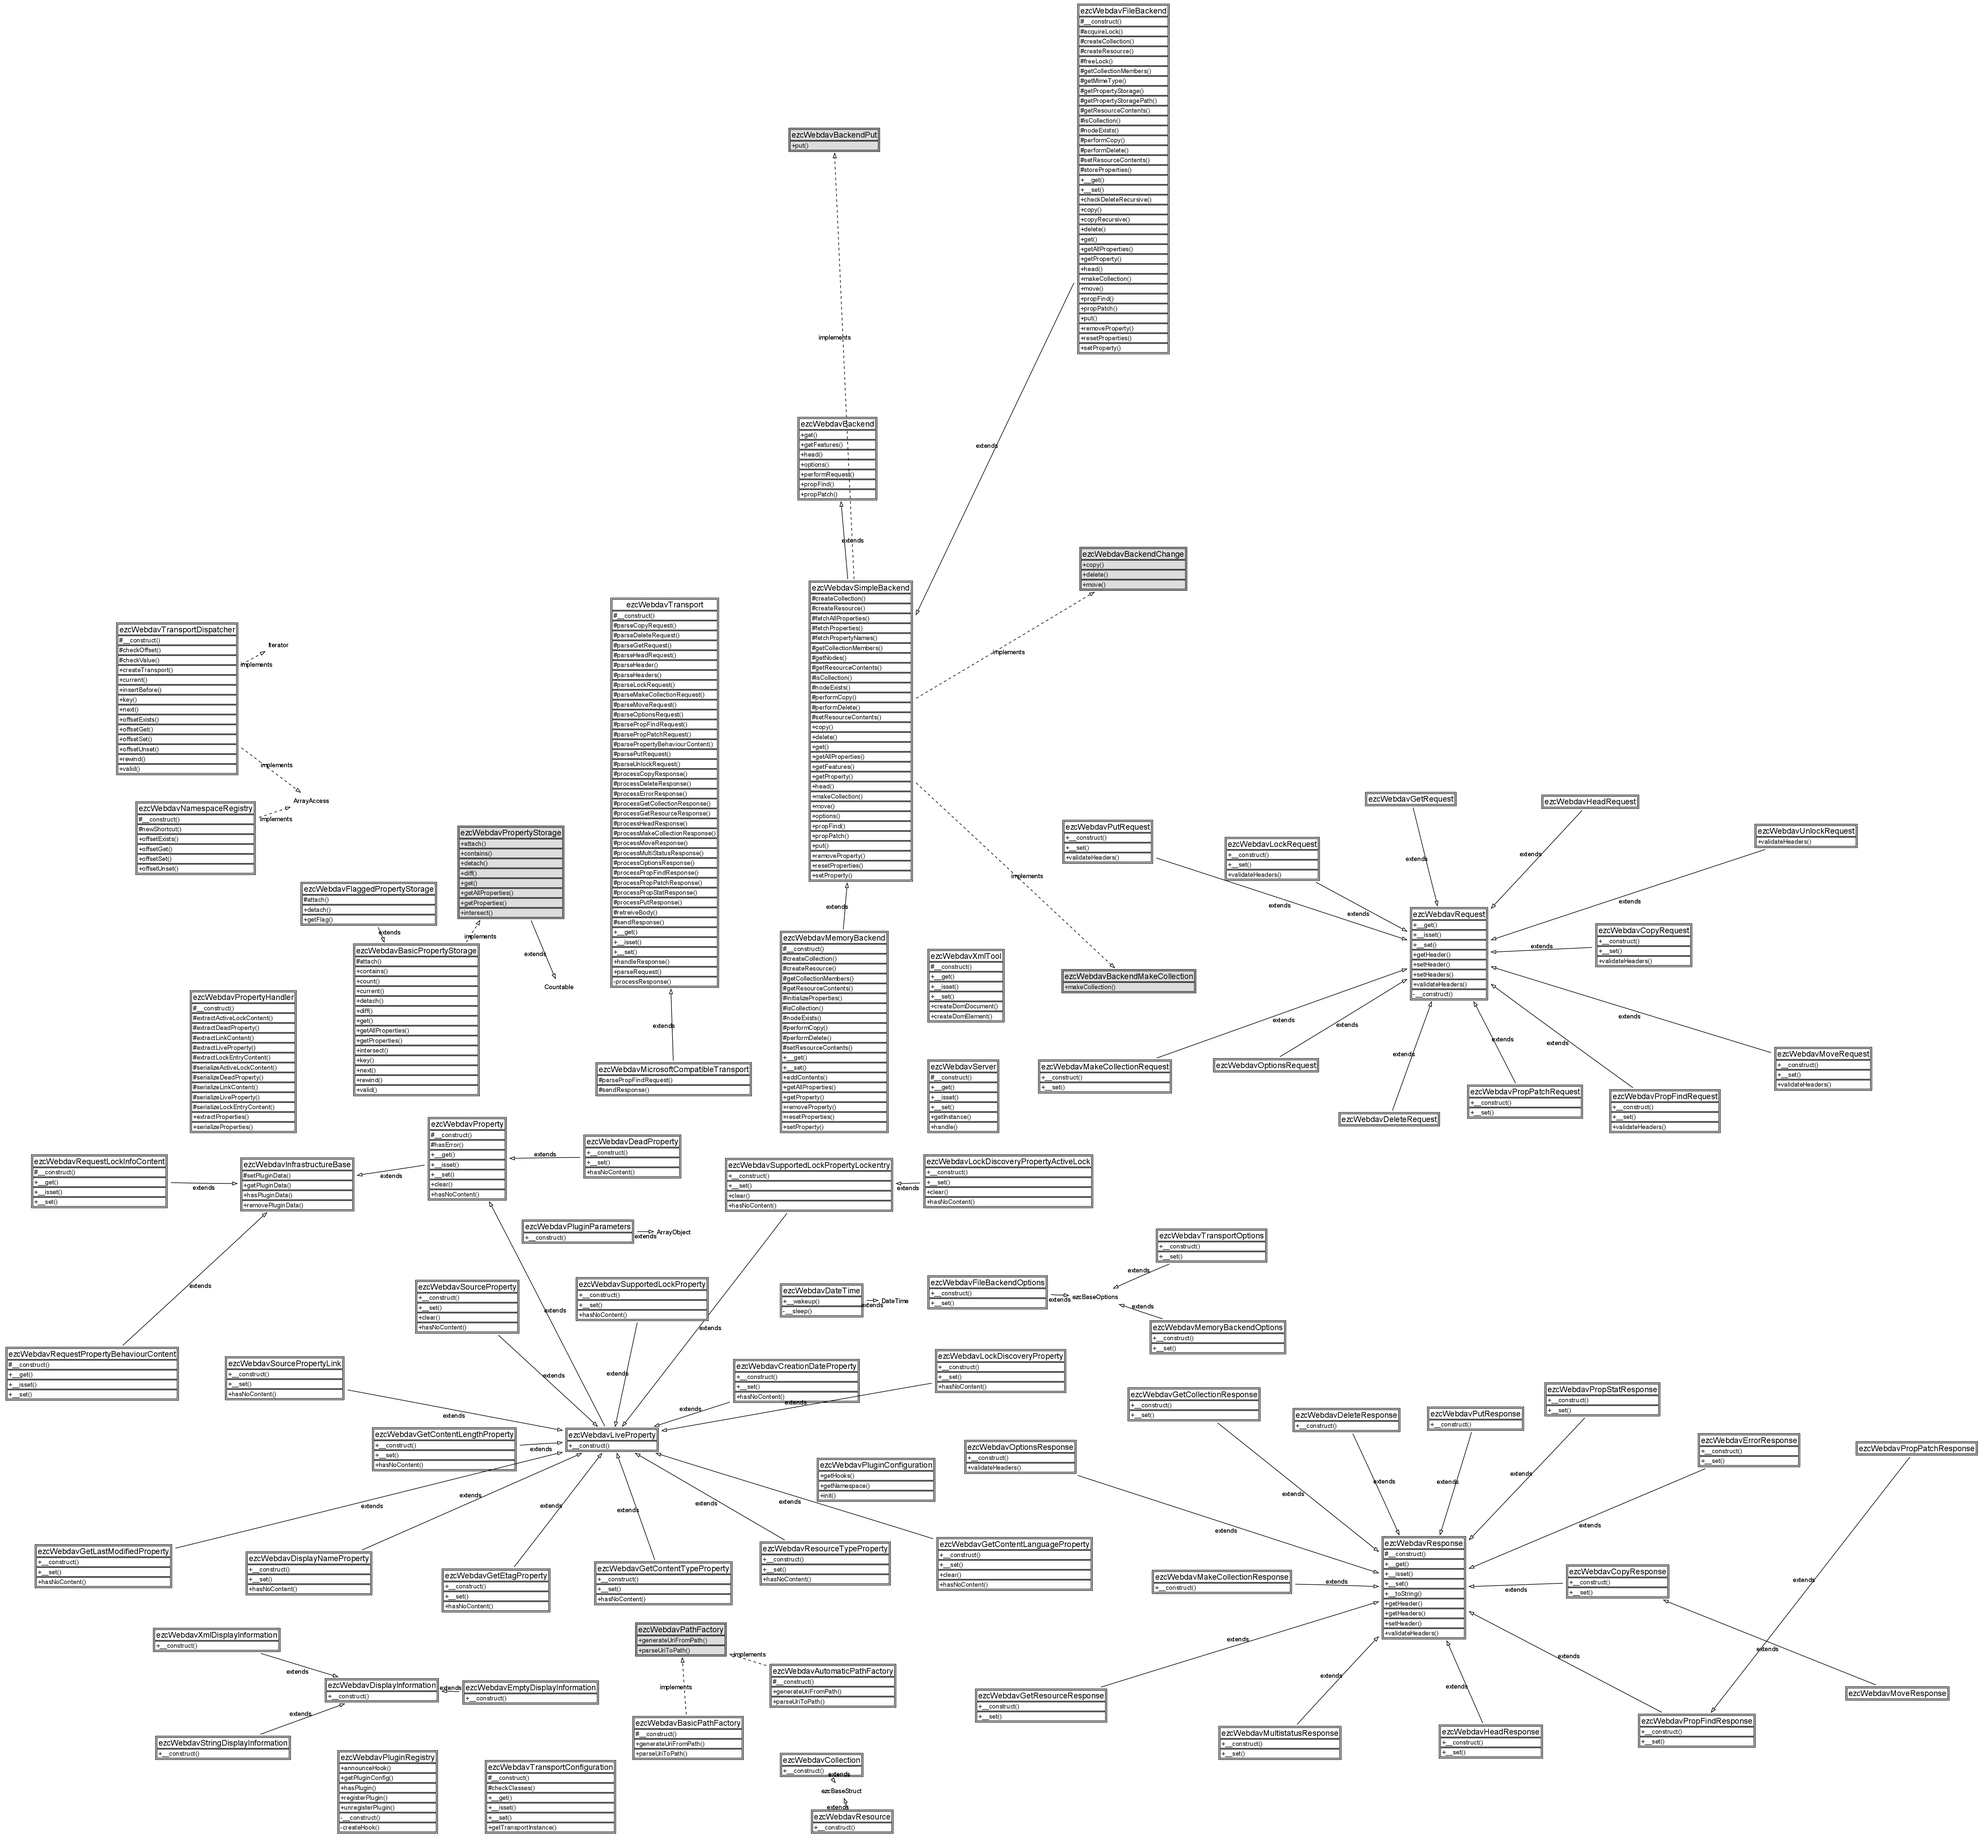
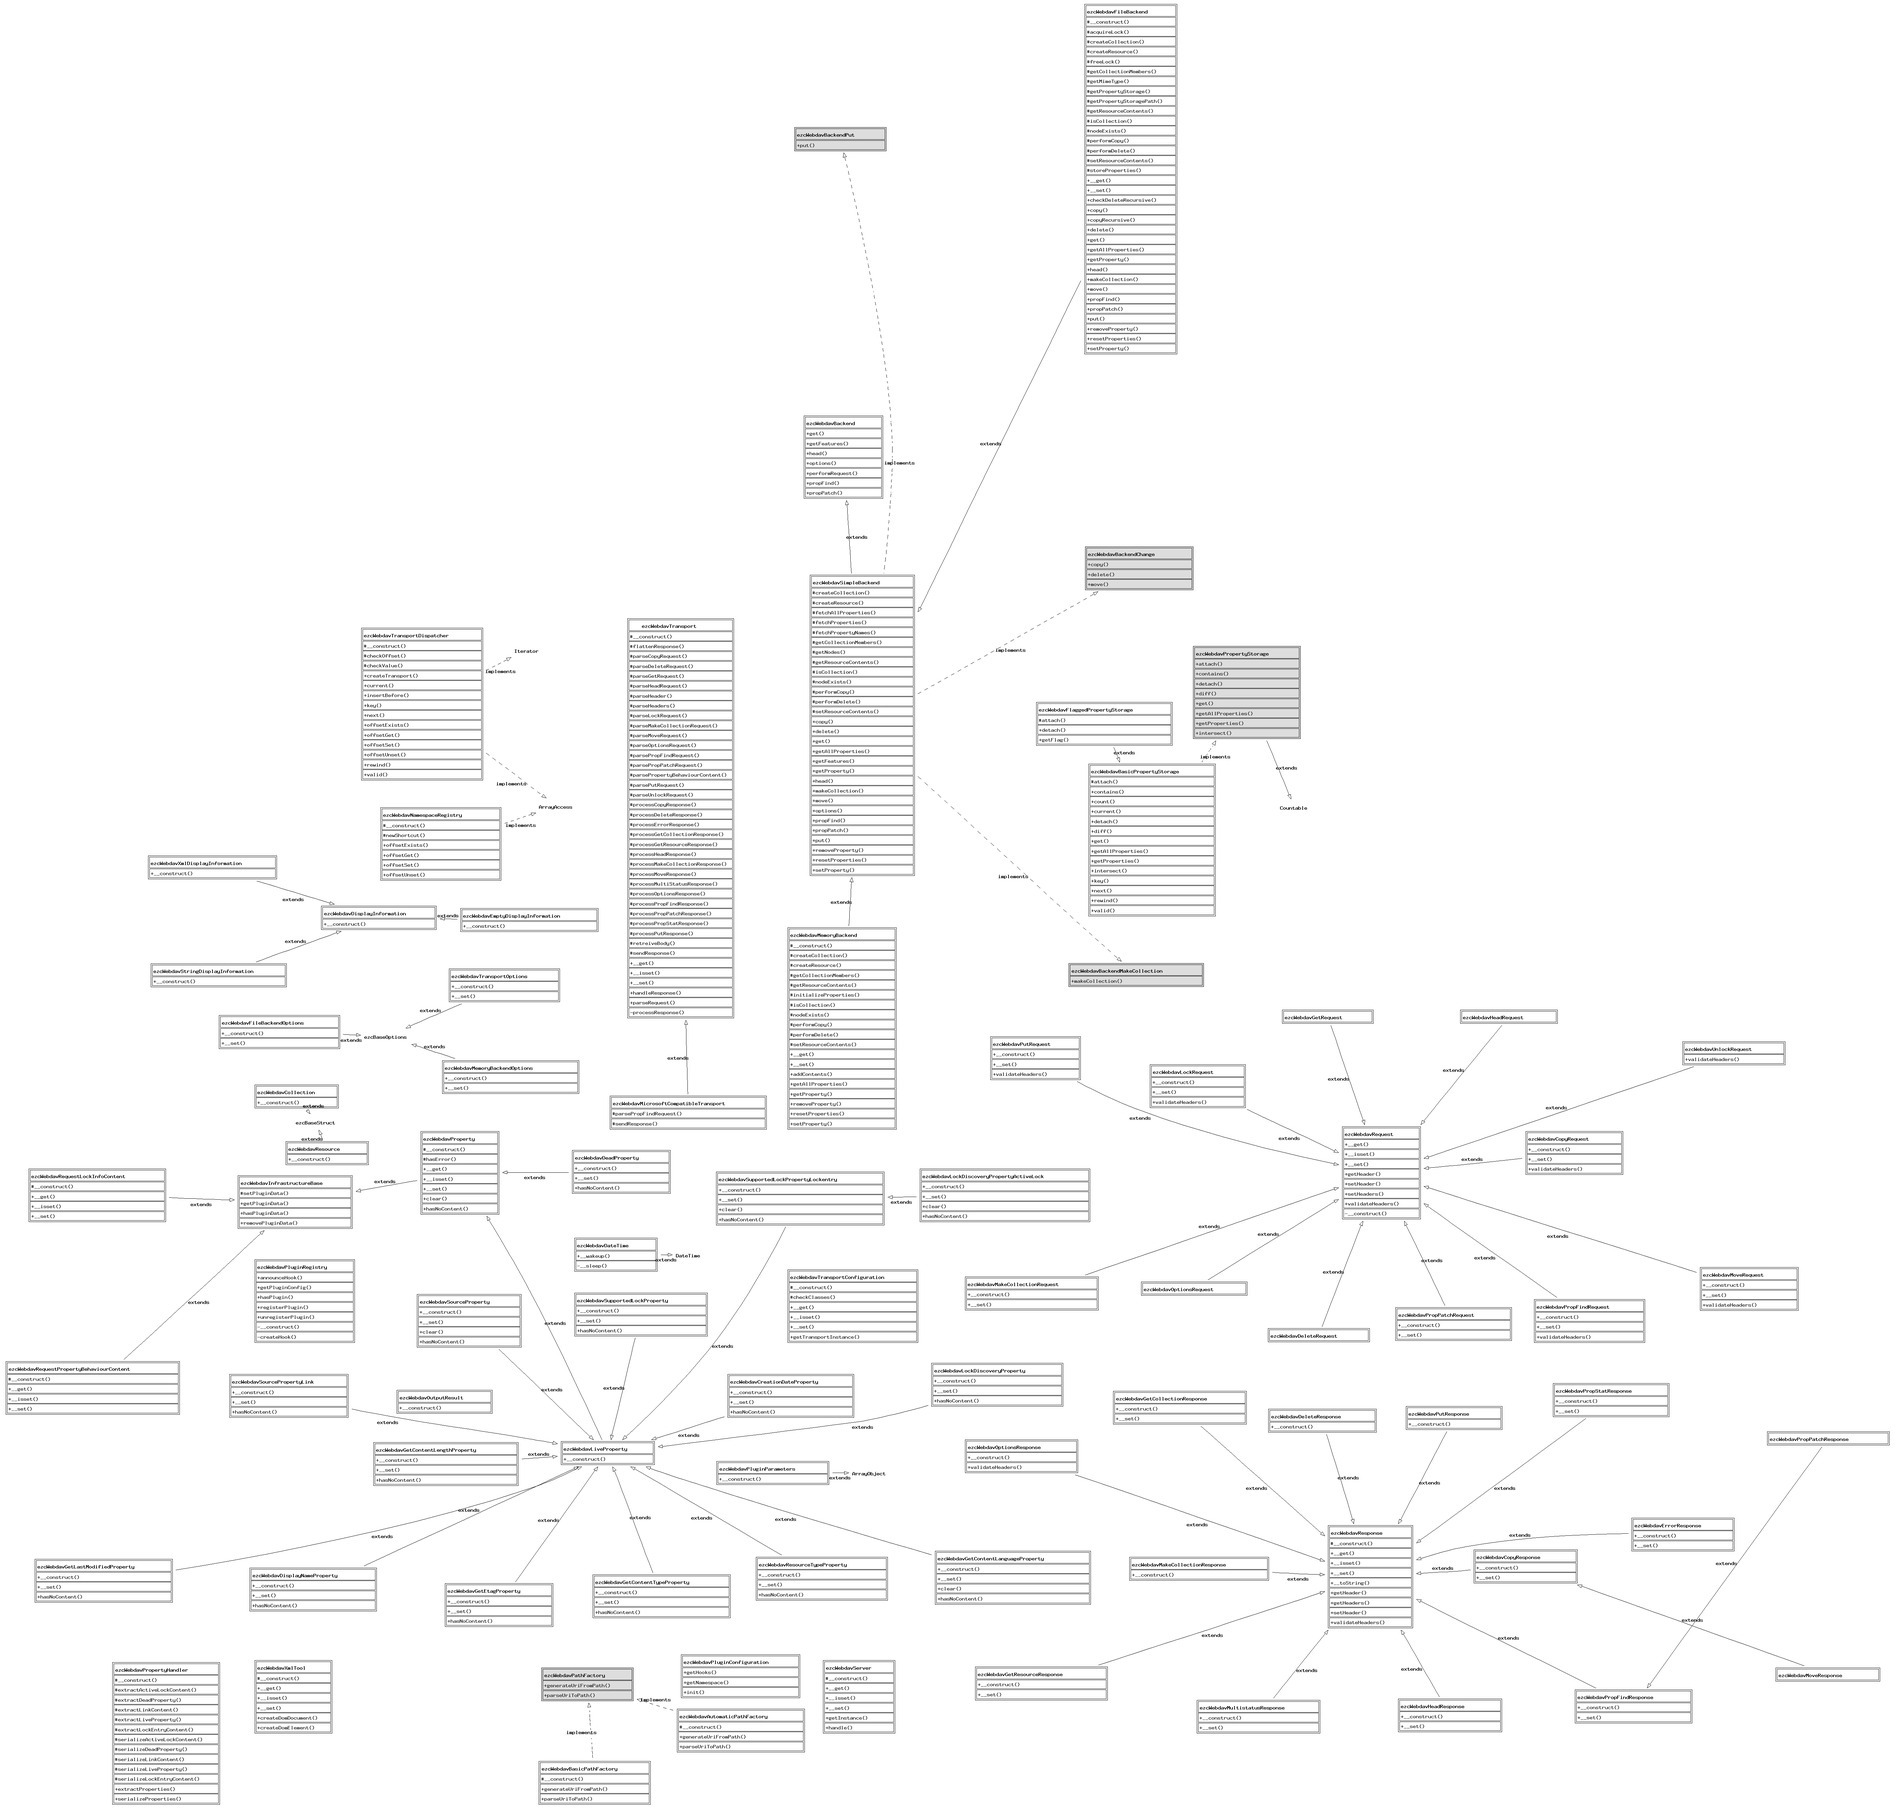
- Use struct instead of complex array
git-svn-id: http://svn.ez.no/svn/ezcomponents/trunk@6423 bc0e7bdc-f0fc-0310-8ff6-f601c06e1256

diff --git a/Webdav/src/transport.php b/Webdav/src/transport.php
@@ -366,8 +366,10 @@ class ezcWebdavTransport
     protected function flattenResponse( ezcWebdavDisplayInformation $info )
     {
         $headers     = array_merge( $info->response->getHeaders() );
-        $headers[''] = (string) $info->response;
         $body        = '';
+
+        $output = new ezcWebdavOutputResult();
+        $output->status = (string) $info->response;
 
         switch ( true )
         {
@@ -393,8 +395,11 @@ class ezcWebdavTransport
                 $body = '';
                 break;
         }
+
+        $output->headers = $headers;
+        $output->body    = $body;
         
-        return array( 'headers' => $headers, 'body' => $body );
+        return $output;
     }
 
     /**
@@ -402,39 +407,26 @@ class ezcWebdavTransport
      *
      * This method is called to finally send the response to the browser. It
      * can be overwritten in test cases to change the behaviour of printing out
-     * the result and sending the headers. The method receives an array
-     * containg 2 elements: The key 'headers' is assigned to an array of
-     * headers to be send. This array is indexed by the header name, while
-     * there is usually 1 empty key, that contains the response code header.
-     * The second element has the key 'body' and contains the string to be send
-     * to the client.
+     * the result and sending the headers.
      *
-     * <code>
-     *      array(
-     *          'headers' => array(
-     *              ''       => '<responsecodeandname>',
-     *              '<name>' => '<value>',
-     *              // ...
-     *          ),
-     *          'body' => '<string>'
-     *      )
-     * </code>
-     *
-     * @param array(string=>mixed) $output
+     * @param ezcWebdavOutputResult $output
      * @return void
      *
      * @todo Should $output be a struct?
      */
-    protected function sendResponse( array $output )
+    protected function sendResponse( ezcWebdavOutputResult $output )
     {
-        // Sends HTTP response code and description
-        foreach( $output['headers'] as $name => $content )
+        // Sends HTTP headers
+        foreach( $output->headers as $name => $content )
         {
-            header( ( $name === '' ? $content : "{$name}: {$content}" ) );
+            header( "{$name}: {$content}" );
         }
 
+        // Send HTTP status code
+        header( $output->status );
+
         // Content-Length header automatically send
-        echo $result;
+        echo $output->body;
     }
 
     /**

diff --git a/Webdav/src/structs/output_result.php b/Webdav/src/structs/output_result.php
@@ -1,0 +1,60 @@
+<?php
+/**
+ * File containing the ezcWebdavOutputResult struct.
+ *
+ * @package Webdav
+ * @version //autogentag//
+ * @copyright Copyright (C) 2005-2007 eZ systems as. All rights reserved.
+ * @license http://ez.no/licenses/new_bsd New BSD License
+ */
+/**
+ * Display information.
+ *
+ * Used by {@link ezcWebdavTransport} to transport information on displaying a
+ * response to the browser.
+ *
+ * @version //autogentag//
+ * @package Webdav
+ * @copyright Copyright (C) 2005-2007 eZ systems as. All rights reserved.
+ * @license http://ez.no/licenses/new_bsd New BSD License
+ */
+class ezcWebdavOutputResult
+{
+    /**
+     * Response code
+     * 
+     * @var string
+     */
+    public $status;
+
+    /**
+     * Response headers
+     * 
+     * @var array
+     */
+    public $header;
+
+    /**
+     * Response body
+     * 
+     * @var string
+     */
+    public $body;
+    
+    /**
+     * Creates a new struct.
+     * 
+     * @param string $status 
+     * @param array $header 
+     * @param string $body 
+     * @return void
+     */
+    public function __construct( $status = '', array $header = array(), $body = '' )
+    {
+        $this->status = $status;
+        $this->header = $header;
+        $this->body   = $body;
+    }
+}
+
+?>

diff --git a/Webdav/src/webdav_autoload.php b/Webdav/src/webdav_autoload.php
@@ -80,6 +80,7 @@ return array(
     'ezcWebdavNamespaceRegistry'                      => 'Webdav/namespace_registry.php',
     'ezcWebdavOptionsRequest'                         => 'Webdav/requests/options.php',
     'ezcWebdavOptionsResponse'                        => 'Webdav/responses/options.php',
+    'ezcWebdavOutputResult'                           => 'Webdav/structs/output_result.php',
     'ezcWebdavPluginConfiguration'                    => 'Webdav/plugin_configuration.php',
     'ezcWebdavPluginParameters'                       => 'Webdav/plugin_parameters.php',
     'ezcWebdavPluginRegistry'                         => 'Webdav/plugin_registry.php',

diff --git a/Webdav/tests/classes/transport_test_mock.php b/Webdav/tests/classes/transport_test_mock.php
@@ -7,10 +7,10 @@ class ezcWebdavTransportTestMock extends ezcWebdavTransport
         return $GLOBALS['EZC_WEBDAV_TRANSPORT_TEST_BODY'];
     }
 
-    protected function sendResponse( array $output )
+    protected function sendResponse( ezcWebdavOutputResult $output )
     {
-        $GLOBALS['EZC_WEBDAV_TRANSPORT_TEST_RESPONSE_HEADERS'] = $output['headers'];
-        $GLOBALS['EZC_WEBDAV_TRANSPORT_TEST_RESPONSE_BODY']    = $output['body'];
+        $GLOBALS['EZC_WEBDAV_TRANSPORT_TEST_RESPONSE_HEADERS'] = $output->headers;
+        $GLOBALS['EZC_WEBDAV_TRANSPORT_TEST_RESPONSE_BODY']    = $output->body;
     }
 }
 
